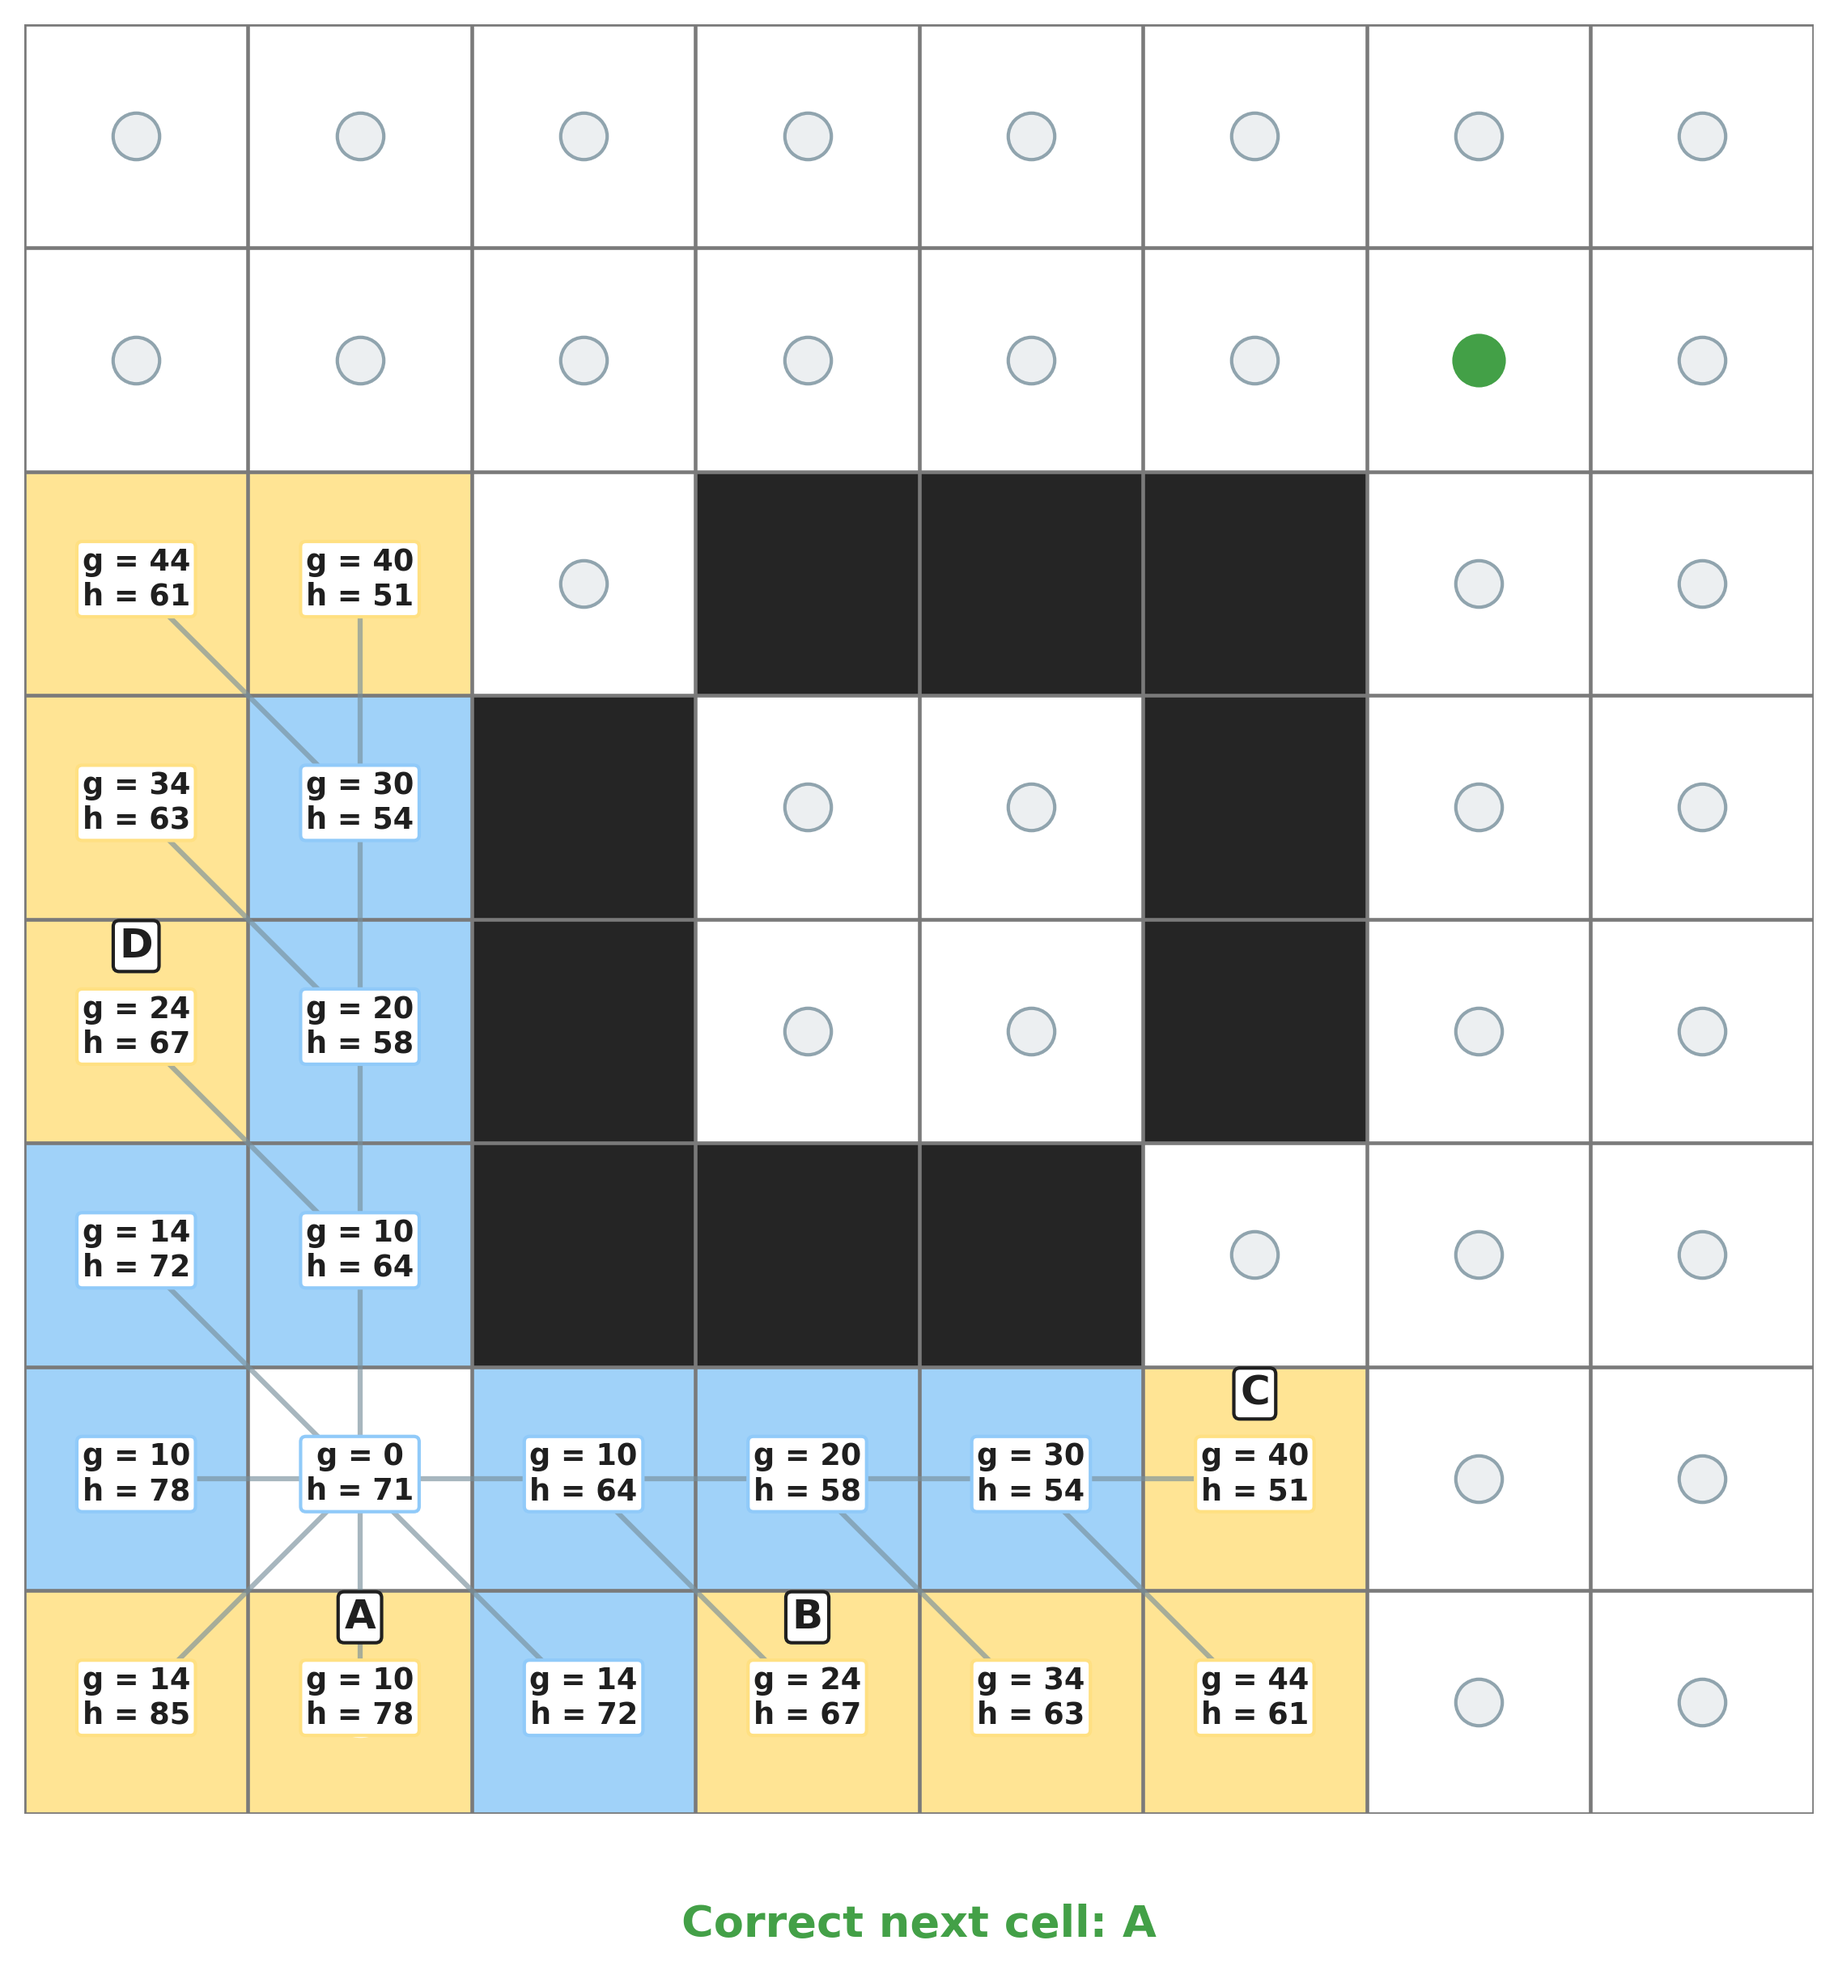
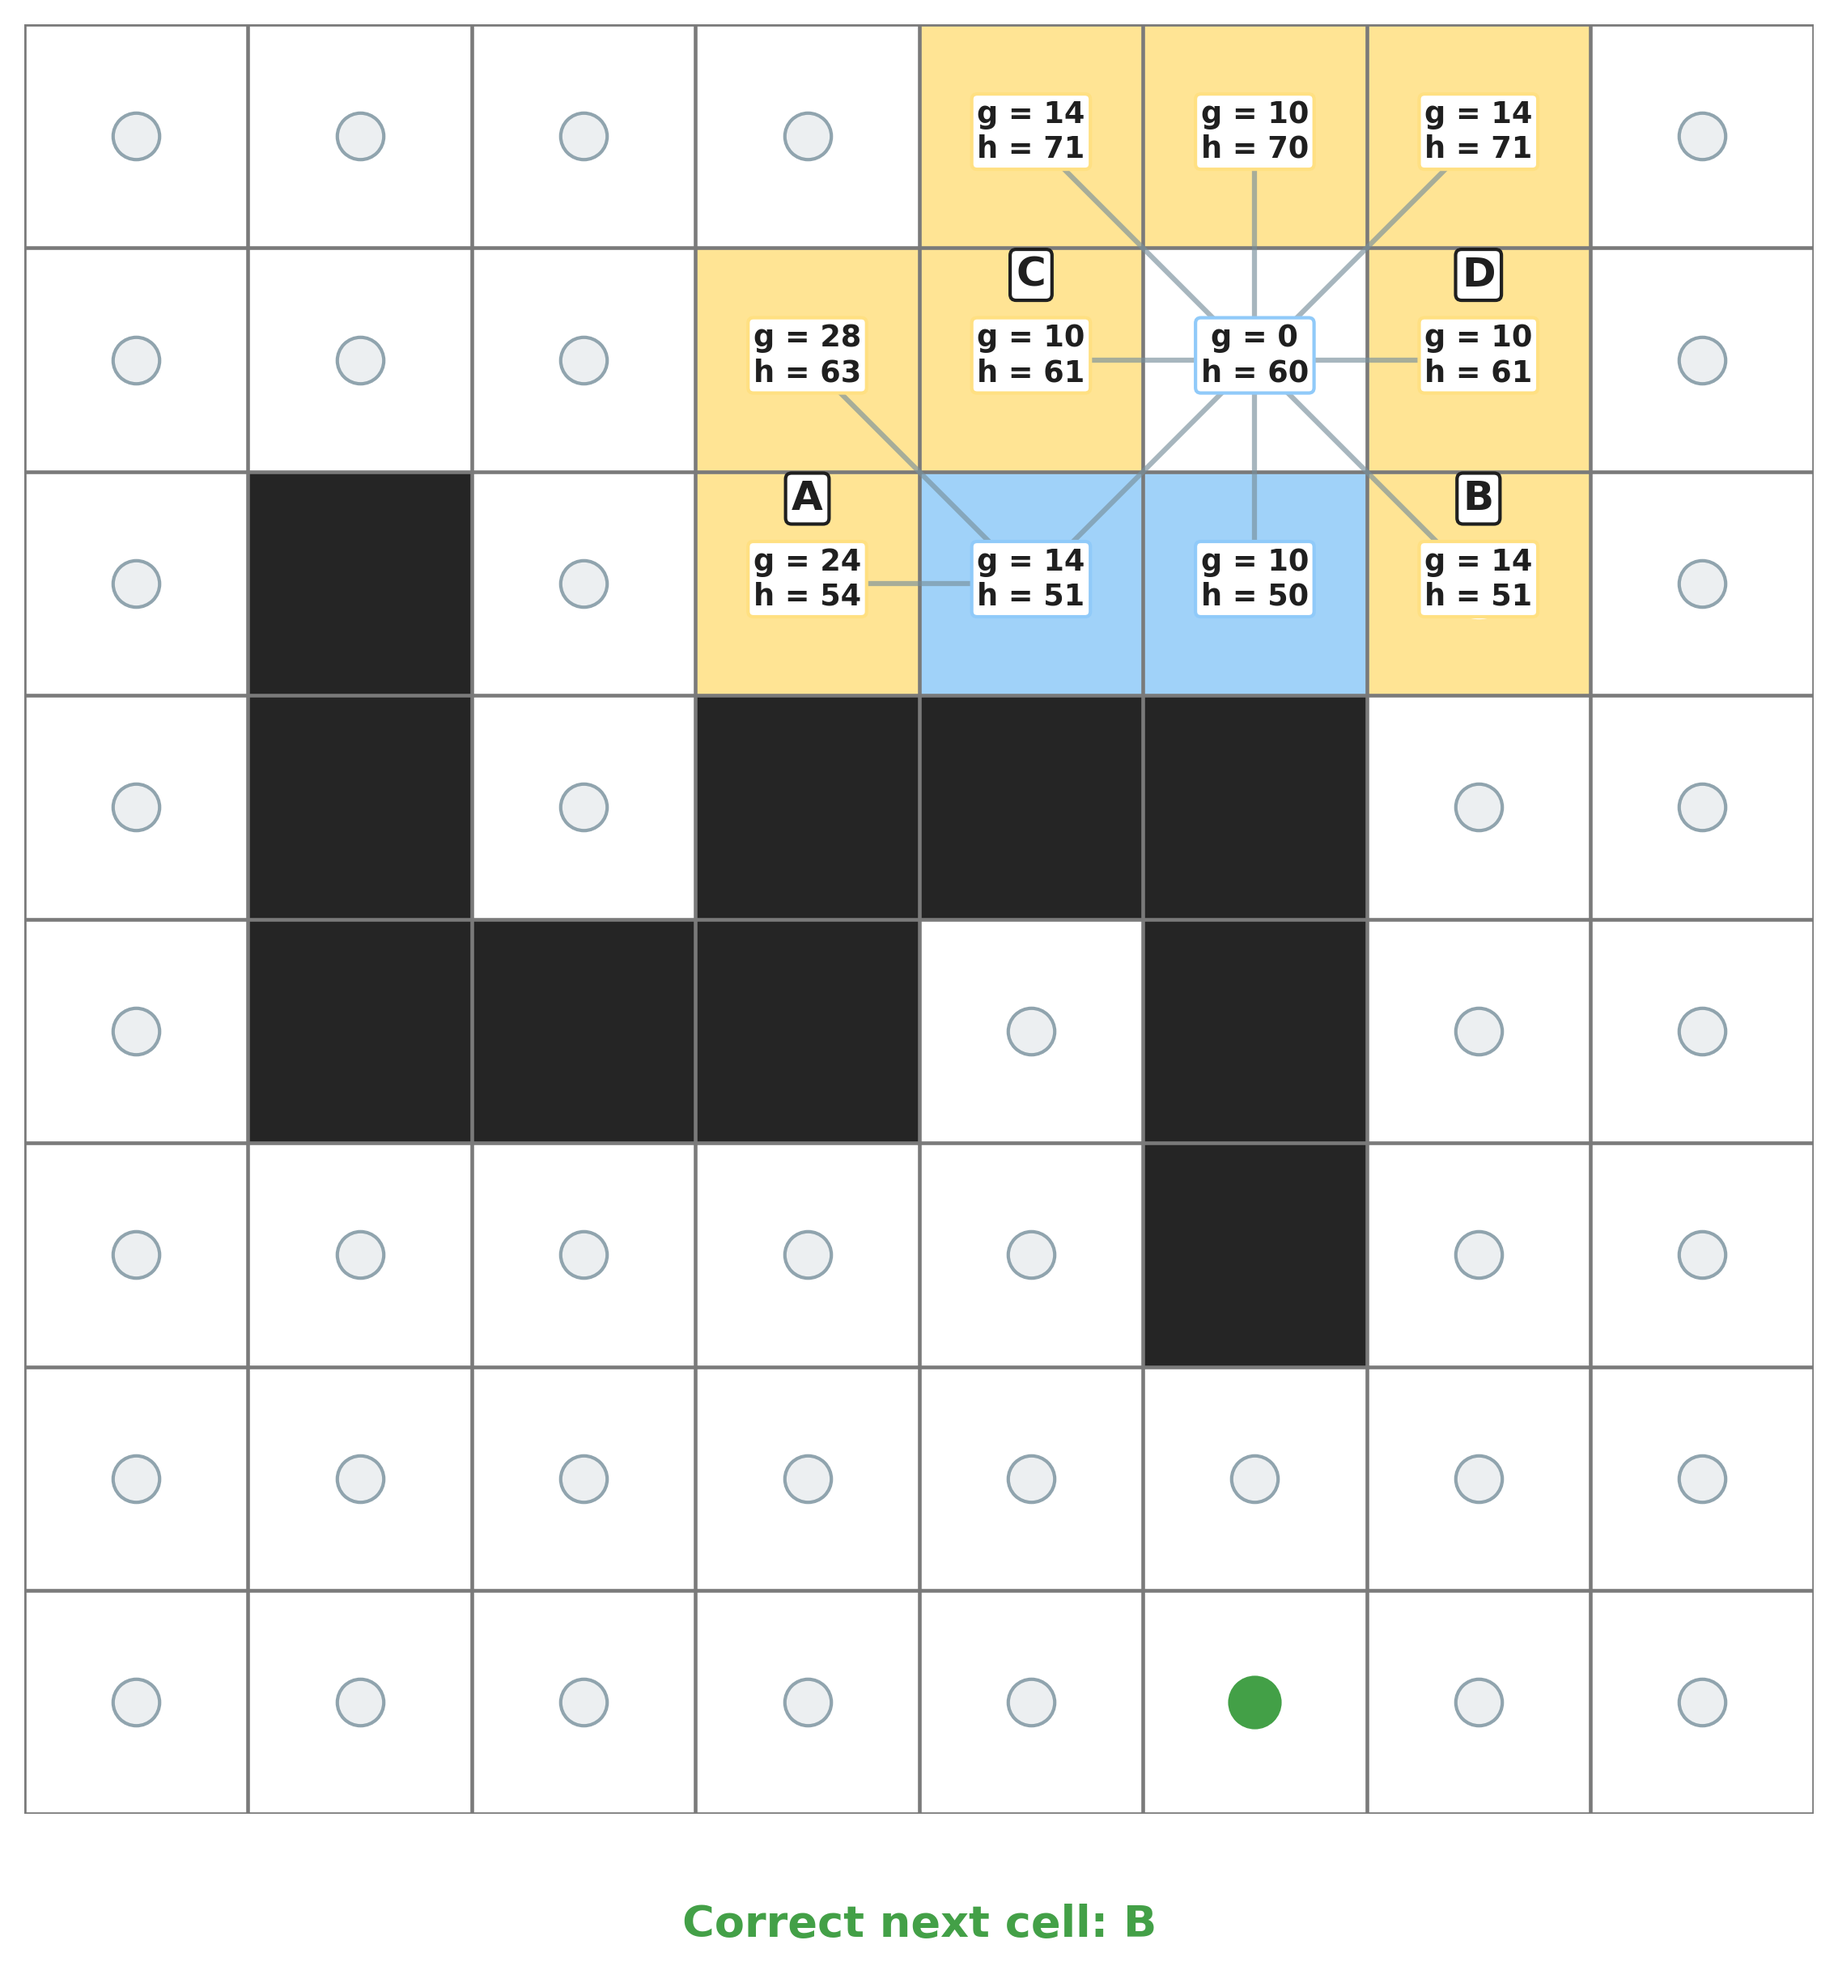
Random generation of A* questions

diff --git a/diagram_scripts/a_star_diagrams/occupancy_grid/a_star_occupancy_grid_quiz.py b/diagram_scripts/a_star_diagrams/occupancy_grid/a_star_occupancy_grid_quiz.py
@@ -12,6 +12,7 @@ Two PNGs are written next to this script:
 """
 
 import heapq
+import random
 from math import hypot
 from pathlib import Path
 
@@ -25,6 +26,7 @@ from matplotlib.patches import Rectangle
 GRID_SIZE = 8
 
 # Coordinates use the form (column, row), with (0, 0) at the lower-left.
+# They are randomized in main() for each run.
 START_NODE = (1, 1)
 GOAL_NODE = (6, 6)
 
@@ -32,15 +34,8 @@ ORTHOGONAL_COST = 10
 DIAGONAL_COST = 14
 CELL_UNITS = 10
 
-# Two L-shaped obstacles in the grid.
-OBSTACLE_CELLS = frozenset(
-    {
-        # Lower L-shape.
-        (2, 2), (3, 2), (4, 2), (2, 3), (2, 4),
-        # Upper L-shape.
-        (3, 5), (4, 5), (5, 5), (5, 4), (5, 3),
-    }
-)
+# Two L-shaped obstacles in the grid. They are randomized in main().
+OBSTACLE_CELLS = frozenset()
 
 # Output files are written next to this script.
 OUTPUT_DIRECTORY = Path(__file__).resolve().parent
@@ -66,6 +61,85 @@ def is_free(node: tuple[int, int]) -> bool:
     column, row = node
     in_bounds = 0 <= column < GRID_SIZE and 0 <= row < GRID_SIZE
     return in_bounds and node not in OBSTACLE_CELLS
+
+
+def make_l_shape(
+    corner: tuple[int, int],
+    step_x: int,
+    step_y: int,
+    length_x: int,
+    length_y: int,
+) -> set[tuple[int, int]]:
+    """Return one L-shaped obstacle as a set of occupied cells."""
+    corner_x, corner_y = corner
+    cells = {(corner_x, corner_y)}
+    for offset in range(1, length_x):
+        cells.add((corner_x + step_x * offset, corner_y))
+    for offset in range(1, length_y):
+        cells.add((corner_x, corner_y + step_y * offset))
+    return cells
+
+
+def in_bounds(cells: set[tuple[int, int]]) -> bool:
+    """Return True if all obstacle cells lie inside the grid."""
+    return all(0 <= column < GRID_SIZE and 0 <= row < GRID_SIZE for column, row in cells)
+
+
+def generate_random_configuration() -> tuple[tuple[int, int], tuple[int, int], frozenset[tuple[int, int]]]:
+    """Return randomized start/goal and two non-overlapping L-shaped obstacles."""
+    rng = random.Random()
+    all_cells = [(column, row) for column in range(GRID_SIZE) for row in range(GRID_SIZE)]
+
+    for _ in range(600):
+        l_shapes: list[set[tuple[int, int]]] = []
+        occupied: set[tuple[int, int]] = set()
+
+        for _shape_index in range(2):
+            built_shape = None
+            for _shape_try in range(150):
+                corner = (
+                    rng.randrange(1, GRID_SIZE - 1),
+                    rng.randrange(1, GRID_SIZE - 1),
+                )
+                step_x = rng.choice((-1, 1))
+                step_y = rng.choice((-1, 1))
+                length_x = rng.randint(3, 4)
+                length_y = rng.randint(3, 4)
+
+                candidate = make_l_shape(corner, step_x, step_y, length_x, length_y)
+                if not in_bounds(candidate):
+                    continue
+                if candidate & occupied:
+                    continue
+                built_shape = candidate
+                break
+
+            if built_shape is None:
+                break
+
+            l_shapes.append(built_shape)
+            occupied |= built_shape
+
+        if len(l_shapes) != 2:
+            continue
+
+        free_cells = [cell for cell in all_cells if cell not in occupied]
+        if len(free_cells) < 12:
+            continue
+
+        start = rng.choice(free_cells)
+        far_cells = [
+            cell
+            for cell in free_cells
+            if cell != start and abs(cell[0] - start[0]) + abs(cell[1] - start[1]) >= 6
+        ]
+        if not far_cells:
+            continue
+        goal = rng.choice(far_cells)
+
+        return start, goal, frozenset(occupied)
+
+    raise RuntimeError("Could not generate a valid random occupancy-grid configuration.")
 
 
 def neighbors(node: tuple[int, int]) -> list[tuple[int, int]]:
@@ -193,6 +267,8 @@ def choose_options(frame: dict) -> list[tuple[int, int]]:
         frame["open"],
         key=lambda node: (frame["f"][node], node[1], node[0]),
     )
+    if len(ranked_open_nodes) < 4:
+        return []
     return ranked_open_nodes[:4]
 
 
@@ -200,6 +276,9 @@ def option_labels(
     frame: dict, options: list[tuple[int, int]]
 ) -> tuple[dict[tuple[int, int], str], str]:
     """Assign visible labels to the options and return the correct label."""
+    if len(options) != 4:
+        raise ValueError("Exactly four options are required for labels A-D.")
+
     displayed_order = sorted(options, key=lambda node: (node[1], node[0]))
     label_names = ["A", "B", "C", "D"]
     label_map = {node: label for node, label in zip(displayed_order, label_names)}
@@ -474,9 +553,29 @@ def render_answer(frame: dict, option_map: dict[tuple[int, int], str], correct_l
 
 def main() -> None:
     """Build the quiz images."""
-    frames = run_search()
-    quiz_frame = select_quiz_frame(frames)
-    options = choose_options(quiz_frame)
+    global START_NODE, GOAL_NODE, OBSTACLE_CELLS
+
+    quiz_frame = None
+    options: list[tuple[int, int]] = []
+
+    for _ in range(300):
+        START_NODE, GOAL_NODE, OBSTACLE_CELLS = generate_random_configuration()
+        frames = run_search()
+        if not frames or frames[-1]["current"] != GOAL_NODE:
+            continue
+
+        candidate_frame = select_quiz_frame(frames)
+        candidate_options = choose_options(candidate_frame)
+        if len(candidate_options) != 4:
+            continue
+
+        quiz_frame = candidate_frame
+        options = candidate_options
+        break
+
+    if quiz_frame is None:
+        raise RuntimeError("Could not produce a quiz-ready random configuration.")
+
     option_map, correct_label = option_labels(quiz_frame, options)
 
     render_question(quiz_frame, option_map)
